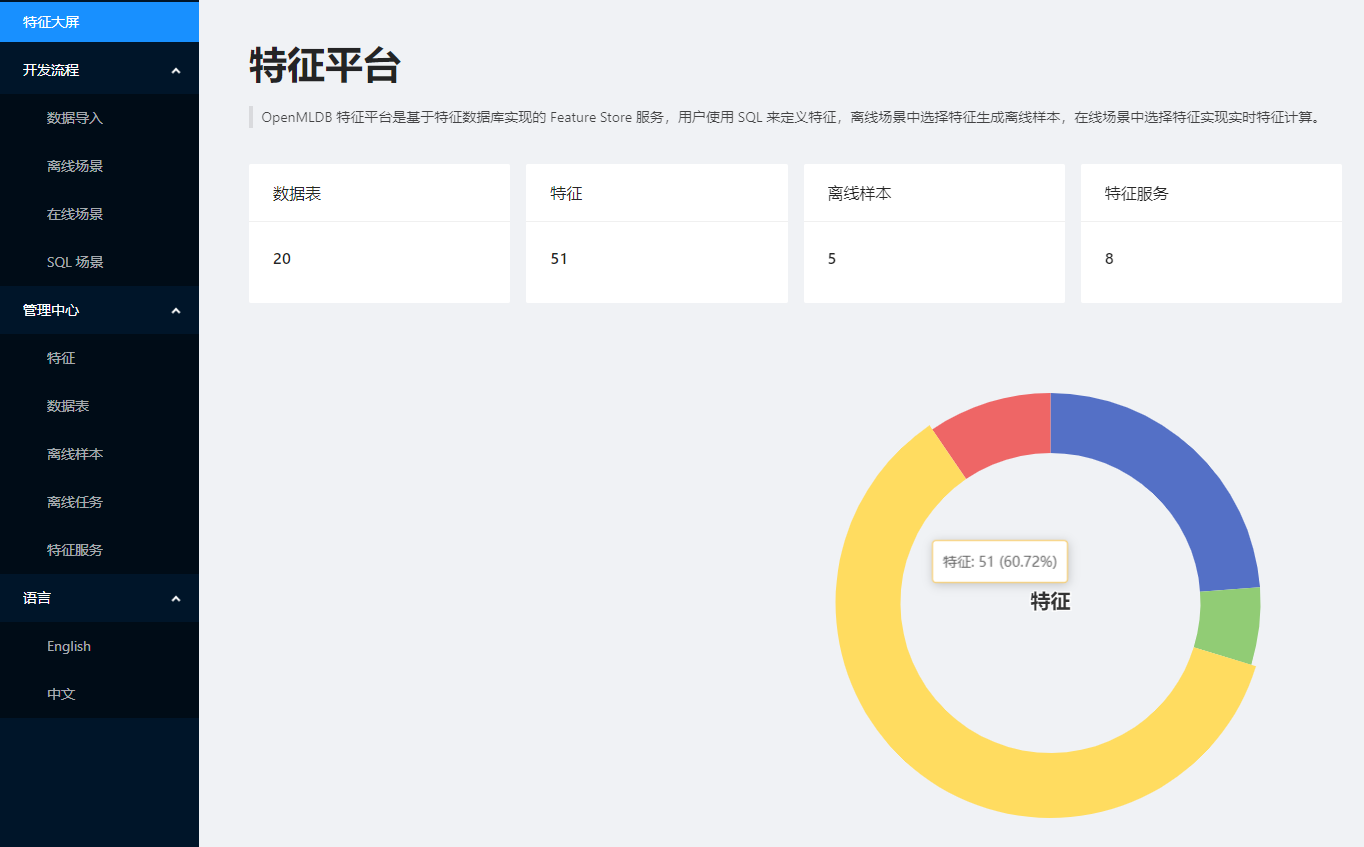
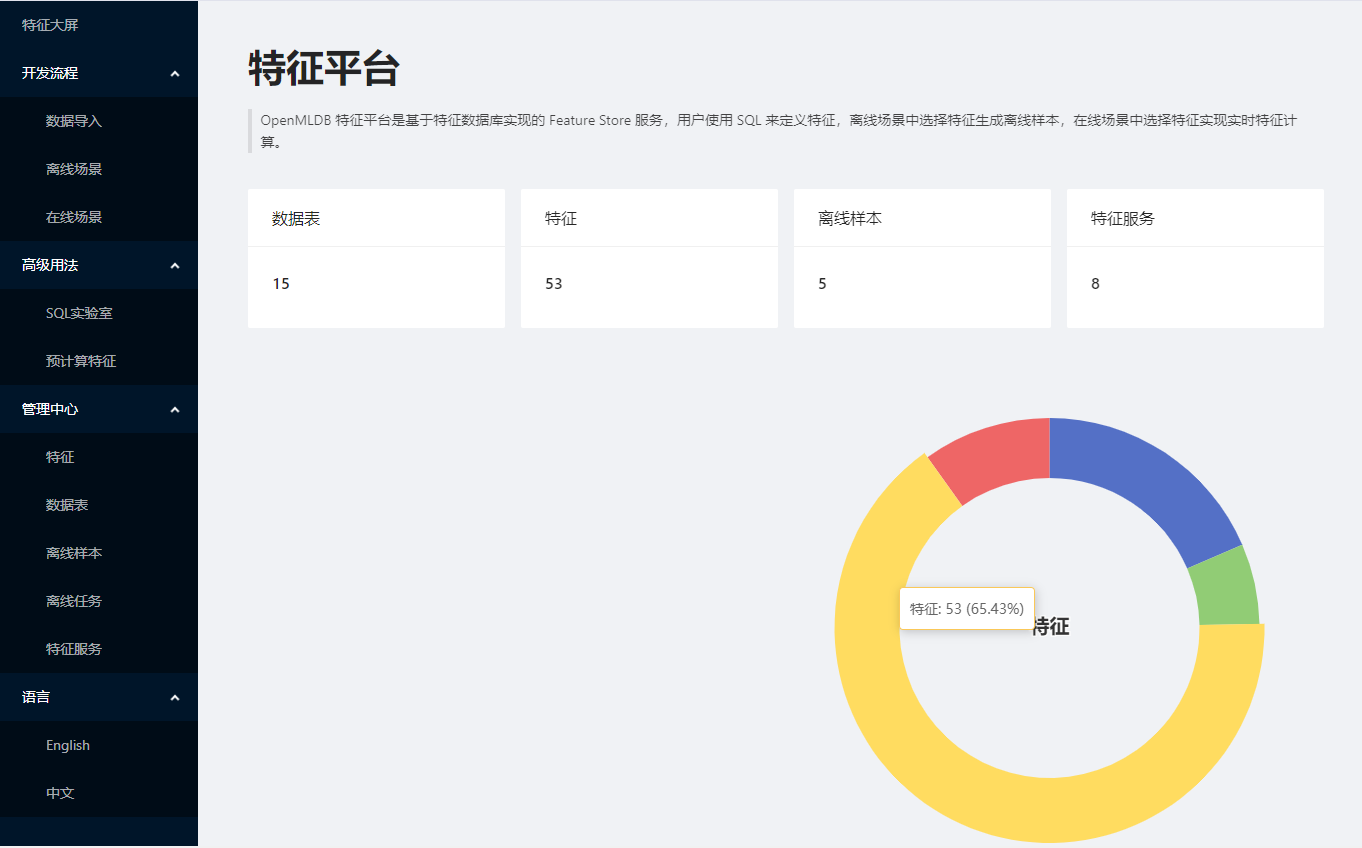
content update

diff --git a/docs/zh/app_ecosystem/feature_platform/tutorial.md b/docs/zh/app_ecosystem/feature_platform/tutorial.md
@@ -18,7 +18,7 @@
 	-- 离线数据：用户可选择使用SQL导入，或者通过parquet、csv或hive方式导入。主要区别为OpenMLDB执行模式不同。
 
 ## 创建特征
-数据准备完成后，用户可选择在线或离线场景创建特征。入口如下图所示：
+数据准备完成后，用户可选择在线或离线场景创建特征。用户可从“管理中心-特征-所有特征”处点加号创建新的特征，如下图所示。或者从在离线场景的“选择特征”处创建特征。
 ![cf_entry](../images/create_fe_entry.png)
 
 用户需要填写特征视图名，数据库名，和SQL语句。可查看“SQL使用案例”和使用“[可视化SQL工具](#可视化sql工具)”方便SQL的填写。每个SQL对应一个特征视图，点击”分析SQL”，系统将会自动分析出 SQL 对应的特征数量和类型。点击“提交”完成特征视图的创建。
@@ -35,8 +35,11 @@
 ## 高级用法
 
 ### SQL实验
+SQL实验室提供OpenMLDB SQL语句的执行能力。 在线模式下会请求在线数据库，可进行在线数据的增删改查。
+离线模式下会提交分布式执行的SQL，可进行离线探索或样本生成。
 
 ### 预计算特征
+用户可以通过预计算把特征值直接存入OpenMLDB在线表中，然后访问在线表数据进行读写特征。如果需要实现更复杂的特征计算逻辑，可以通过命令行或SDK来编写OpenMLDB SQL实现。
 
 ### 可视化SQL工具
 由于OpenMLDB目前仅支持单条SQL语句生成特征组，我们提供了一个可视化的SQL工具，来方便用户通过拖拉拽SQL算子将多条SQL语句通过`WITH`语句生成一条复杂的SQL语句。
